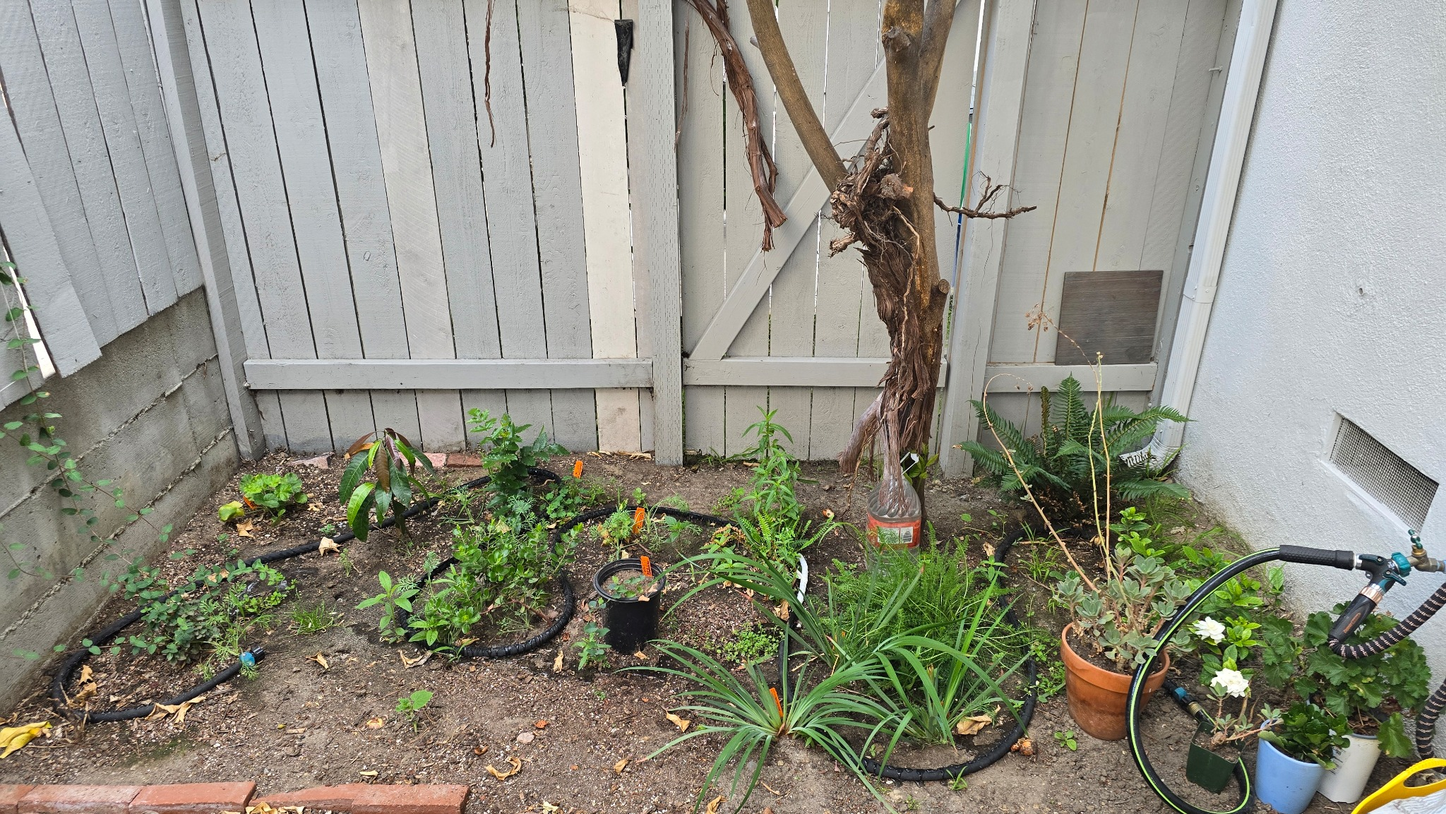
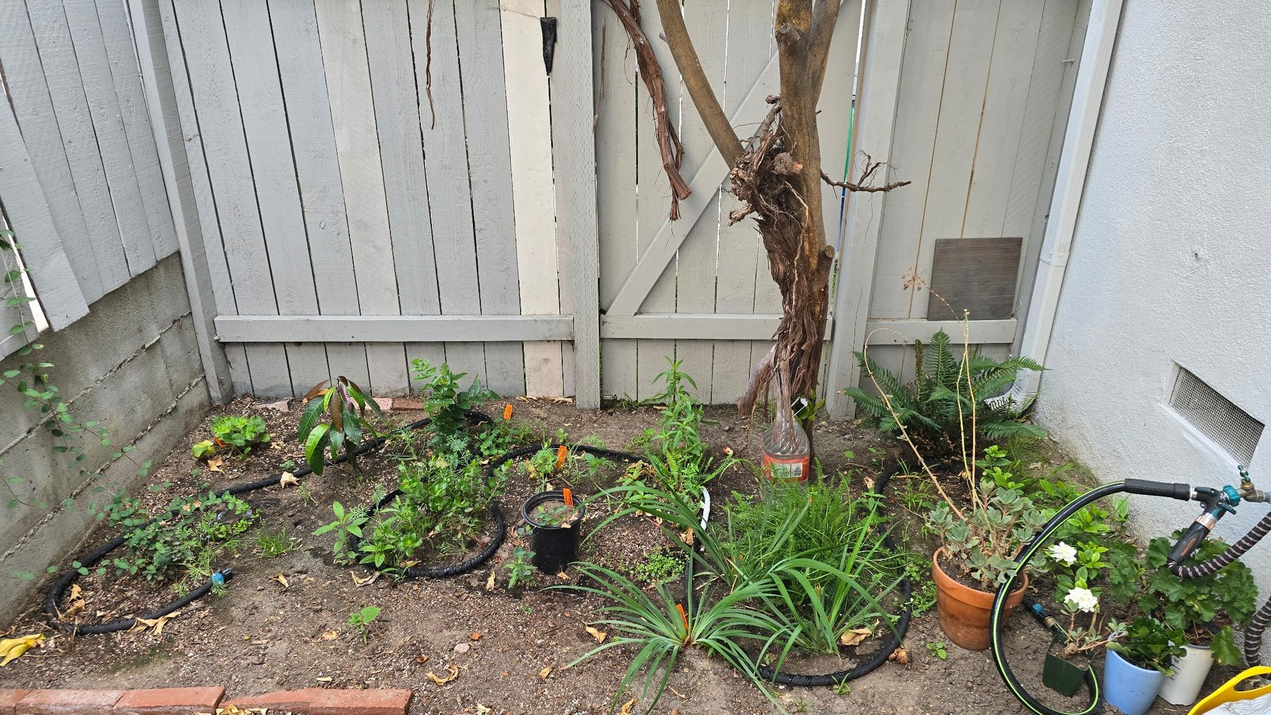
Compress images and lazy-load below-fold photographs
Outstanding item 11. The site served 5.05 MB of photographs on a
mobile-first page. HTML returned in 0.13s; the images dominated
everything after that.

Resized to 1800px on the longest edge (was 2048) and re-encoded as
progressive JPEG at quality 82. Checked the result by eye at full size:
string lights, foliage and firepit detail all hold, no visible artefacts.

logo.png was the worst offender: 535x698 at 257 KB, rendered at 72px.
Now 245x320 at 51 KB, still over 3x the displayed size.

Total assets 5.05 MB -> 2.30 MB, a 55% reduction.

Also set loading="lazy" and decoding="async" on the nine below-fold
images across index.html, andaazan.html and 404.html. The two hero
photographs and the three header logos stay eager, since making a hero
lazy makes the page look broken for a moment. Verified: on first paint
only 2 images load; all 11 load on scroll; none broken.

Removed assets/delete, a stray 2-byte file committed by accident.

Originals are backed up outside the repository.

diff --git a/index.html b/index.html
@@ -280,28 +280,28 @@
 
         <div class="gallery-grid">
           <figure class="gallery-item gallery-large">
-            <img src="assets/patio-firepit.jpg" alt="Private patio at RedDoor3 with firepit and string lights">
+            <img loading="lazy" decoding="async" src="assets/patio-firepit.jpg" alt="Private patio at RedDoor3 with firepit and string lights">
           </figure>
           <figure class="gallery-item">
-            <img src="assets/living-room-wide.jpg" alt="Warm living room with hardwood floors and vintage character">
+            <img loading="lazy" decoding="async" src="assets/living-room-wide.jpg" alt="Warm living room with hardwood floors and vintage character">
           </figure>
           <figure class="gallery-item">
-            <img src="assets/dining-living.jpg" alt="Dining and living area opening into kitchen">
+            <img loading="lazy" decoding="async" src="assets/dining-living.jpg" alt="Dining and living area opening into kitchen">
           </figure>
           <figure class="gallery-item">
-            <img src="assets/kitchen.jpg" alt="Chef-level kitchen with vintage range and checkerboard flooring">
+            <img loading="lazy" decoding="async" src="assets/kitchen.jpg" alt="Chef-level kitchen with vintage range and checkerboard flooring">
           </figure>
           <figure class="gallery-item">
-            <img src="assets/bedroom.jpg" alt="King bedroom at RedDoor3">
+            <img loading="lazy" decoding="async" src="assets/bedroom.jpg" alt="King bedroom at RedDoor3">
           </figure>
           <figure class="gallery-item">
-            <img src="assets/bathroom.jpg" alt="Bathroom at RedDoor3">
+            <img loading="lazy" decoding="async" src="assets/bathroom.jpg" alt="Bathroom at RedDoor3">
           </figure>
           <figure class="gallery-item">
-            <img src="assets/shower-detail.jpg" alt="Shower detail in bathroom">
+            <img loading="lazy" decoding="async" src="assets/shower-detail.jpg" alt="Shower detail in bathroom">
           </figure>
           <figure class="gallery-item">
-            <img src="assets/garden.jpg" alt="Garden area at RedDoor3">
+            <img loading="lazy" decoding="async" src="assets/garden.jpg" alt="Garden area at RedDoor3">
           </figure>
         </div>
       </div>
@@ -551,7 +551,7 @@
   <footer class="site-footer">
     <div class="container footer-grid">
       <div>
-        <img class="footer-logo" src="assets/logo.png" alt="RedDoor3 logo">
+        <img loading="lazy" decoding="async" class="footer-logo" src="assets/logo.png" alt="RedDoor3 logo">
         <p>RedDoor3 is a private direct-booking stay for respectful, approved guests seeking a quieter, more personal Los Angeles base near Universal.</p>
       </div>
       <div>

diff --git a/andaazan.html b/andaazan.html
@@ -308,7 +308,7 @@
   <footer class="site-footer">
     <div class="container footer-grid">
       <div>
-        <img class="footer-logo" src="assets/logo.png" alt="RedDoor3 logo">
+        <img loading="lazy" decoding="async" class="footer-logo" src="assets/logo.png" alt="RedDoor3 logo">
         <p>Andaazan is a four-seat home dinner cooked and served by Ambar Capoor at RedDoor3 in North Hollywood, Los Angeles.</p>
       </div>
       <div>
